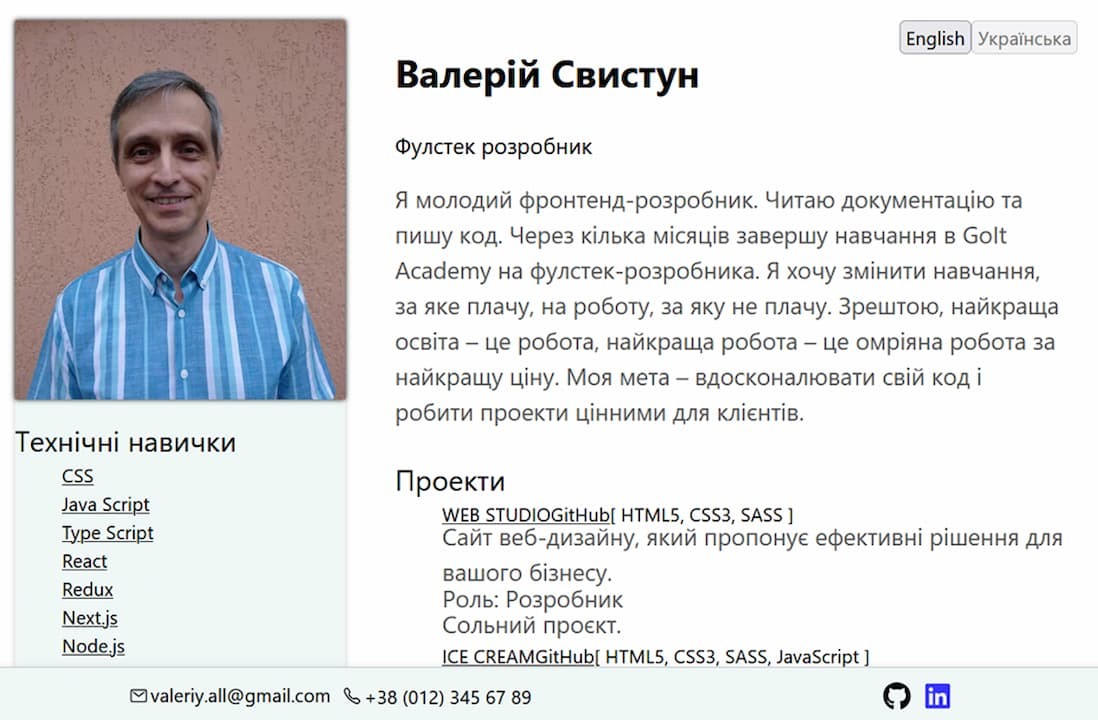
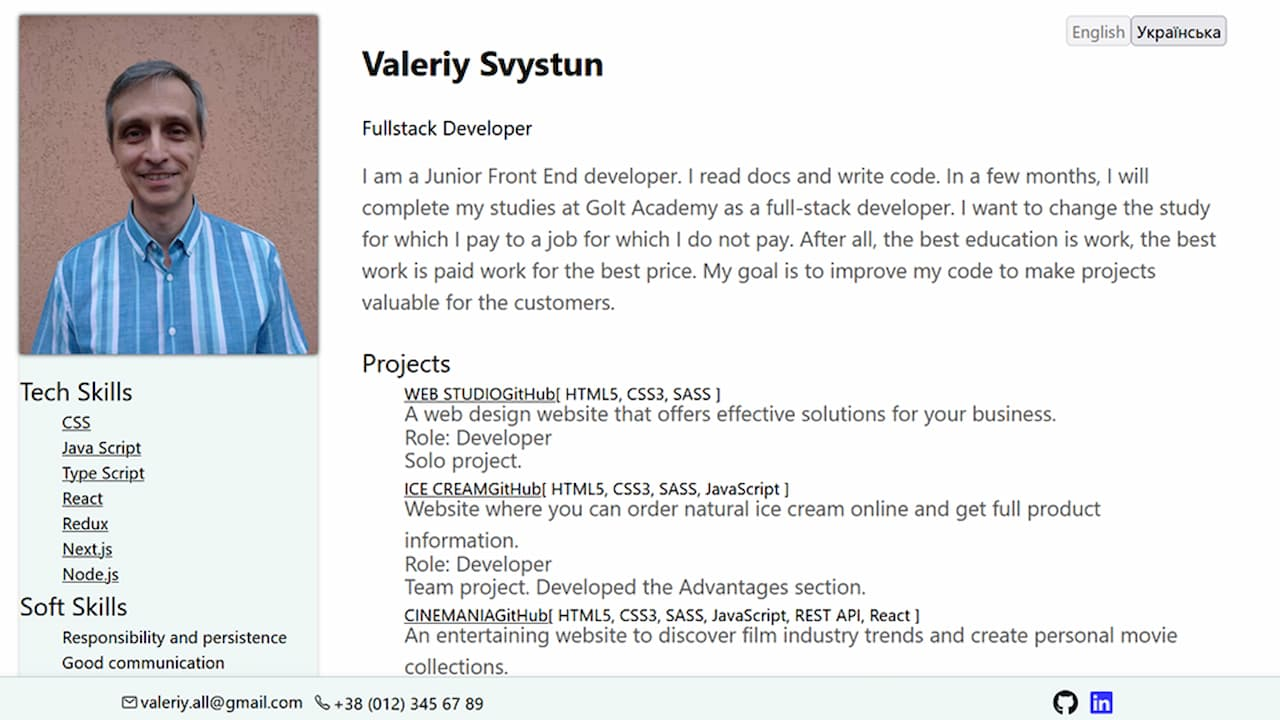
changed: ukrainian to english text

Changed region(s): [[0.0, 0.0, 1.0, 1.0], [0.8051, 0.0, 0.9909, 0.0917]]

diff --git a/src/app/page.tsx b/src/app/page.tsx
@@ -14,16 +14,16 @@ export default function Home() {
   const cases: Case[] = [
     {
       id: "project-1",
-      title: "Резюме",
-      description: "Моє резюме на Next.js.",
+      title: "Resume",
+      description: "My resume on Next.js.",
       image: "/images/project-1.jpg",
       github: "https://github.com/ValeriyVinn/valeriyvinn.github.io",
       live: "https://valeriyvinn-github-io.vercel.app/uk",
     },
     {
       id: "project-2",
-      title: "Моя Церква",
-      description: "Проект-подяка громаді за спільну молитву.",
+      title: "My Parish",
+      description: "A way to thank the community for our shared prayers.",
       image: "/images/project-2.jpg",
       github: "#",
       live: "https://parish-ten.vercel.app/",
@@ -31,8 +31,8 @@ export default function Home() {
 
     {
       id: "project-3",
-      title: "Нотаріус",
-      description: "Проект для нотаріальної контори.",
+      title: "Notary",
+      description: "Project for a notary office.",
       image: "/images/project-3.jpg",
       github: "#",
       live: "https://notary-five.vercel.app/",
@@ -40,9 +40,9 @@ export default function Home() {
 
     {
       id: "project-4",
-      title: "Вправи",
+      title: "Exercises",
       description:
-        "Пет-проект для фулстек-практики: фронтенд (React on Github) + бекенд (Node.js, Express on Render).",
+        "Pet project for fullstack practice: frontend (React on Github) + backend (Node.js, Express on Render).",
       image: "/images/project-4.jpg",
       github: "https://github.com/ValeriyVinn/exercises",
       live: "https://valeriyvinn.github.io/exercises/",
@@ -50,16 +50,16 @@ export default function Home() {
 
     {
       id: "project-5",
-      title: "Привіт, Слово",
-      description: "Пет-проект з вивчення лексики англійської мови.",
+      title: "Hi-Words",
+      description: "Pet project on learning English vocabulary.",
       image: "/images/project-5.jpg",
       github: "https://github.com/ValeriyVinn/hi-words",
       live: "https://valeriyvinn.github.io/hi-words/",
     },
     {
       id: "project-6",
-      title: "Фонетика",
-      description: "Пет-проект для практики фонетики англійської мови.",
+      title: "Fonetic",
+      description: "Pet project for practicing English phonetics.",
       image: "/images/project-6.jpg",
       github: "https://github.com/ValeriyVinn/phonetic",
       live: "https://valeriyvinn.github.io/phonetic/",
@@ -73,7 +73,7 @@ export default function Home() {
       <main className="min-h-screen">
         <section className="container mx-auto px-4 py-12">
           <h1 className="text-blue-700 text-5xl font-bold text-center">
-            Портфоліо
+            Portfolio
           </h1>
           {/* <p className="mt-4 max-w-2xl mx-auto text-center text-muted-foreground">
             Кілька відібраних проєктів, які демонструють мій стек, підхід до
